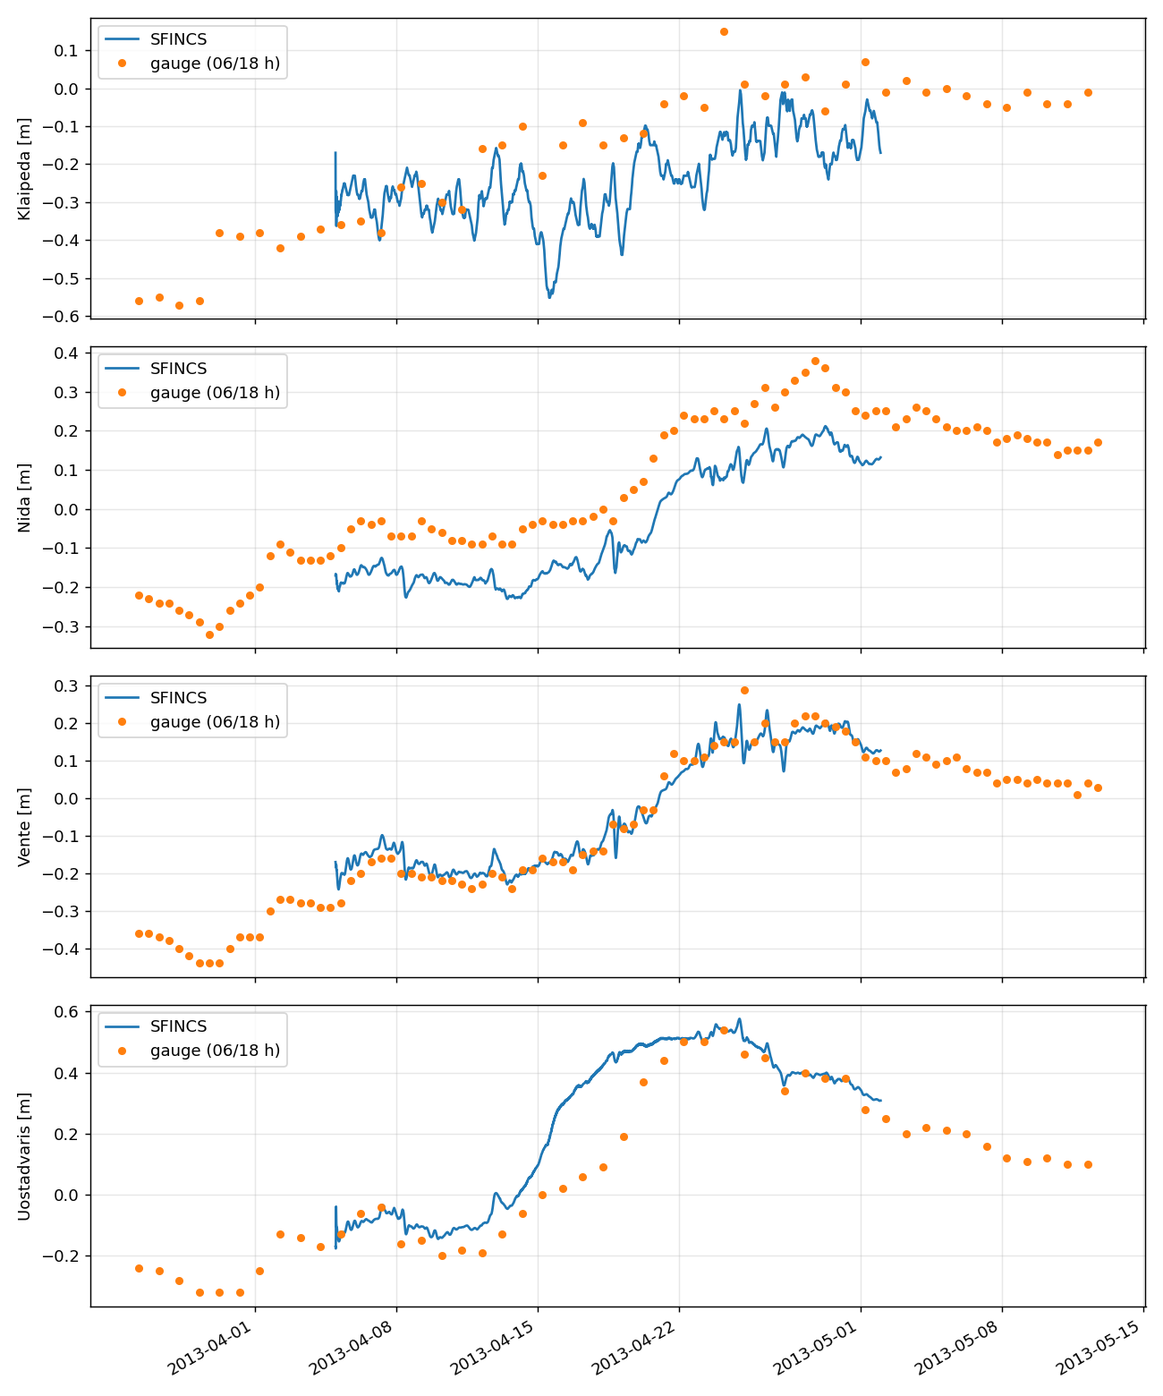
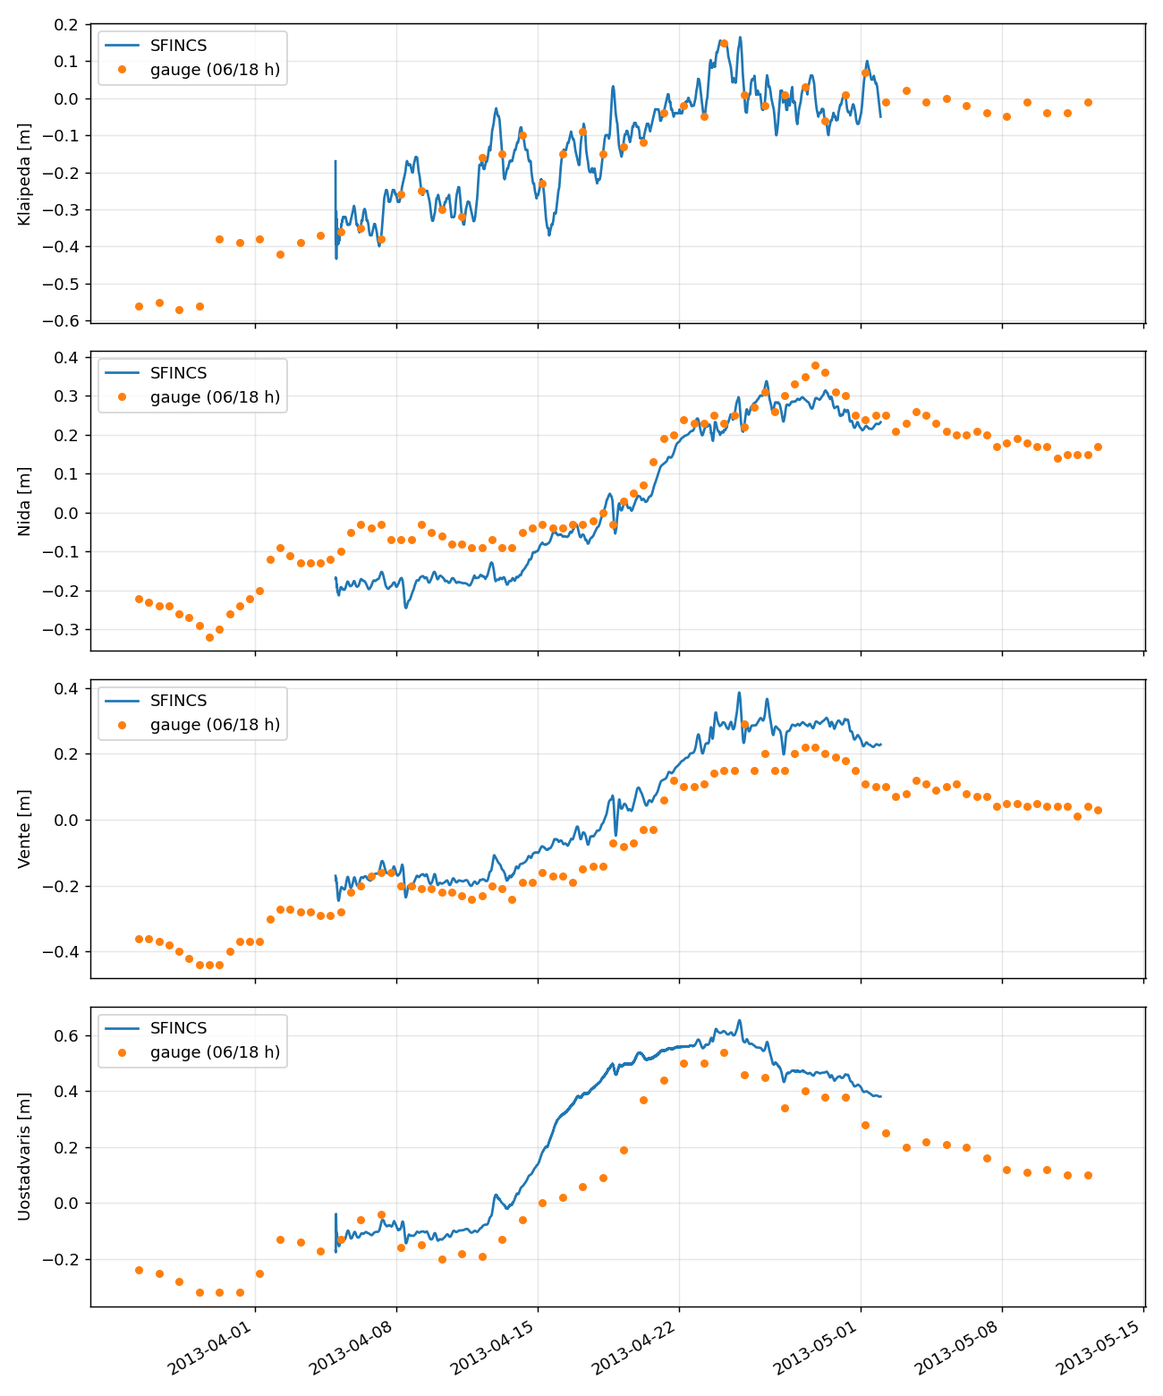
Re-run all six hindcasts on the fitted sea boundary
Rebuilt, run, validated and map-cache re-exported, sequentially on 12
threads (a TELEMAC job held 16 of 28 cores), 01:12-05:54.

April, all three variants: 5 of 7 scored criteria met (was 4 of 8; A4 is
now an info line). A3 delta-to-sea head met at +0.08..+0.09 m (was +0.23).
Scoring-window bias, baseline: Klaipeda -0.16 -> +0.00, Nida -0.13 ->
-0.02, Vente -0.00 -> +0.10, Uostadvaris +0.10 -> +0.16 -- the sea end and
central lagoon are now right, and the eastern side reads high: the
remaining April error is at the river end (A2a: the delta fills ~4 days
early). Flooded area 66.5 -> 73.3 km2 (gridded 70.2, 70.0).

Xaver, all three: C1, C2, C4 met (3 of 3 scored; C3 now info). Baseline
C2 err -0.04 -> -0.01 m; 8 Dec 06:00 miss Uostadvaris/Nida -0.11/-0.14 ->
-0.09/-0.12 m. Flooded area 155.6 -> 158.4 km2 (gridded 131.7, 131.3).

The app test follows: C3's new label, a 3-of-3 headline, 158.4 km2.

Claude-Session: https://claude.ai/code/session_01KRu4KRMkzuo3KBx1pDy9mh

diff --git a/app/test_sfincs_data.py b/app/test_sfincs_data.py
@@ -29,7 +29,7 @@ def test_criteria_are_parsed_with_verdicts():
     assert [c["label"] for c in items][:4] == [
         "C1 Uostadvaris peak",
         "C2 Nida 8 Dec rise",
-        "C3 Klaipeda RMSE",
+        "C3 Klaipeda boundary fit",
         "C4 Silute uplands",
     ]
     assert all(c["verdict"] and c["detail"] for c in items)
@@ -39,8 +39,9 @@ def test_info_lines_are_kept_but_not_scored():
     verdicts = [c["verdict"] for c in sd.criteria(VARIANT)]
     assert "info" in verdicts
     _, sentence = viewer.headline(VARIANT)
-    # the two info lines must not inflate the denominator
-    assert sentence.startswith("4 of 4")
+    # the info lines (the two 8 Dec 06:00 checks, and C3 since the sea boundary
+    # is fitted to the Klaipeda readings) must not inflate the denominator
+    assert sentence.startswith("3 of 3")
 
 
 def test_marginal_pass_is_reported_but_flagged(monkeypatch):
@@ -82,7 +83,7 @@ def test_unscored_verdicts_leave_the_denominator(monkeypatch):
 
 
 def test_flooded_area_is_read_from_the_report():
-    assert sd.flooded_area_km2(VARIANT) == pytest.approx(155.6)   # results/xaver_2013/validation.md since ad54760
+    assert sd.flooded_area_km2(VARIANT) == pytest.approx(158.4)   # results/xaver_2013/validation.md since the fitted sea boundary
 
 
 def test_both_metric_tables_are_parsed():

diff --git a/curonian/results/april_2013/validation.md b/curonian/results/april_2013/validation.md
@@ -4,28 +4,28 @@ Whole period: 2013-04-05 00:00 to 2013-05-02 00:00
 
 | station | n | bias m | RMSE m | r | peak err m | peak dt h |
 |---|---|---|---|---|---|---|
-| Klaipeda | 27 | -0.12 | 0.15 | 0.73 | -0.15 | +19 |
-| Nida | 54 | -0.12 | 0.12 | 0.99 | -0.15 | +12 |
-| Vente | 54 | +0.01 | 0.04 | 0.97 | -0.01 | -6 |
-| Uostadvaris | 27 | +0.09 | 0.13 | 0.93 | +0.05 | +18 |
+| Klaipeda | 27 | +0.00 | 0.00 | 1.00 | +0.02 | +19 |
+| Nida | 54 | -0.05 | 0.07 | 0.98 | -0.03 | -58 |
+| Vente | 54 | +0.08 | 0.10 | 0.97 | +0.12 | -6 |
+| Uostadvaris | 27 | +0.12 | 0.16 | 0.94 | +0.13 | +18 |
 
 Scoring window: 2013-04-13 00:00 to 2013-05-02 00:00
 
 | station | n | bias m | RMSE m | r | peak err m | peak dt h |
 |---|---|---|---|---|---|---|
-| Klaipeda | 19 | -0.16 | 0.18 | 0.77 | -0.15 | +19 |
-| Nida | 38 | -0.13 | 0.13 | 0.99 | -0.15 | +12 |
-| Vente | 38 | -0.00 | 0.04 | 0.96 | -0.01 | -6 |
-| Uostadvaris | 19 | +0.10 | 0.15 | 0.86 | +0.05 | +18 |
+| Klaipeda | 19 | +0.00 | 0.00 | 1.00 | +0.02 | +19 |
+| Nida | 38 | -0.02 | 0.04 | 0.98 | -0.03 | -58 |
+| Vente | 38 | +0.10 | 0.11 | 0.97 | +0.12 | -6 |
+| Uostadvaris | 19 | +0.16 | 0.18 | 0.90 | +0.13 | +18 |
 
-Flooded land in the delta window (depth > 5 cm, ground > 0 m): **66.5 km²**
+Flooded land in the delta window (depth > 5 cm, ground > 0 m): **73.3 km²**
 
 ### Success criteria (spec section 9)
-- A1 Uostadvaris peak [2013-04-13 00:00 to 2013-05-02 00:00]: **met** -- model peak 0.59 m vs gauge 0.54 m, err +0.05 m (threshold: peak err within +/-0.15 m)
-- A2a filling rate [first crossing of +0.20 m]: **not met** -- model 2013-04-15 15:20 vs gauge (interpolated) 2013-04-19 08:00, dt -89 h (threshold: within +/-24 h of the observed crossing)
-- A2b crest timing [2013-04-21 18:00 to 2013-04-24 18:00]: **not met** -- model peak 2013-04-25 00:10; observed plateau 22 Apr-24 Apr (threshold: model peak inside the observed plateau +/-12 h)
-- A3 delta-to-sea head [2013-04-22 00:00 to 2013-04-26 00:00]: **not met** -- model 0.71 m vs gauge 0.48 m over 5 readings, err +0.23 m (threshold: mean head within +/-0.15 m)
-- A4 Klaipeda control [2013-04-13 00:00 to 2013-05-02 00:00]: **not met** -- RMSE 0.176 m against an observed sd of 0.089 m (threshold: RMSE <= 0.085 m (below the observed sd of 0.089 m: a flat series fails))
+- A1 Uostadvaris peak [2013-04-13 00:00 to 2013-05-02 00:00]: **met** -- model peak 0.67 m vs gauge 0.54 m, err +0.13 m (threshold: peak err within +/-0.15 m)
+- A2a filling rate [first crossing of +0.20 m]: **not met** -- model 2013-04-15 08:20 vs gauge (interpolated) 2013-04-19 08:00, dt -96 h (threshold: within +/-24 h of the observed crossing)
+- A2b crest timing [2013-04-21 18:00 to 2013-04-24 18:00]: **not met** -- model peak 2013-04-25 00:20; observed plateau 22 Apr-24 Apr (threshold: model peak inside the observed plateau +/-12 h)
+- A3 delta-to-sea head [2013-04-22 00:00 to 2013-04-26 00:00]: **met** -- model 0.56 m vs gauge 0.48 m over 5 readings, err +0.09 m (threshold: mean head within +/-0.15 m)
+- A4 Klaipeda boundary fit [2013-04-13 00:00 to 2013-05-02 00:00]: **info** -- RMSE 0.002 m against an observed sd of 0.089 m (threshold: n/a -- the sea boundary is fitted to these readings; not an independent test)
 - A5 Silute uplands [whole run, delta window (325000, 6105000, 360000, 6145000)]: **met** -- 0.00% of land with ground > 3 m flooded (threshold: < 1 % flooded)
-- A6a Rusne rise [2013-04-13 00:00 to 2013-05-02 00:00]: **met** -- model 1.40 m vs gauge 1.53 m above the 05-11 Apr mean, err -0.12 m (daily values; gauge zero unknown, rise only) (threshold: rise within +/-0.15 m)
+- A6a Rusne rise [2013-04-13 00:00 to 2013-05-02 00:00]: **met** -- model 1.42 m vs gauge 1.53 m above the 05-11 Apr mean, err -0.11 m (daily values; gauge zero unknown, rise only) (threshold: rise within +/-0.15 m)
 - A6b Rusne crest date [19 Apr to 24 Apr]: **met** -- model crest 21 Apr; observed plateau 20 Apr-23 Apr (threshold: model crest inside the observed plateau +/-1 day)

diff --git a/curonian/results/april_2013_gridwind/validation.md b/curonian/results/april_2013_gridwind/validation.md
@@ -4,28 +4,28 @@ Whole period: 2013-04-05 00:00 to 2013-05-02 00:00
 
 | station | n | bias m | RMSE m | r | peak err m | peak dt h |
 |---|---|---|---|---|---|---|
-| Klaipeda | 27 | -0.12 | 0.15 | 0.73 | -0.16 | +19 |
-| Nida | 54 | -0.13 | 0.13 | 0.99 | -0.17 | +12 |
-| Vente | 54 | +0.00 | 0.04 | 0.98 | -0.04 | -6 |
-| Uostadvaris | 27 | +0.08 | 0.13 | 0.93 | +0.04 | +18 |
+| Klaipeda | 27 | +0.00 | 0.00 | 1.00 | +0.01 | +19 |
+| Nida | 54 | -0.06 | 0.07 | 0.98 | -0.04 | -58 |
+| Vente | 54 | +0.08 | 0.09 | 0.98 | +0.10 | -6 |
+| Uostadvaris | 27 | +0.12 | 0.15 | 0.93 | +0.11 | +18 |
 
 Scoring window: 2013-04-13 00:00 to 2013-05-02 00:00
 
 | station | n | bias m | RMSE m | r | peak err m | peak dt h |
 |---|---|---|---|---|---|---|
-| Klaipeda | 19 | -0.16 | 0.18 | 0.77 | -0.16 | +19 |
-| Nida | 38 | -0.14 | 0.14 | 0.99 | -0.17 | +12 |
-| Vente | 38 | -0.01 | 0.04 | 0.97 | -0.04 | -6 |
-| Uostadvaris | 19 | +0.10 | 0.15 | 0.85 | +0.04 | +18 |
+| Klaipeda | 19 | +0.00 | 0.00 | 1.00 | +0.01 | +19 |
+| Nida | 38 | -0.03 | 0.04 | 0.98 | -0.04 | -58 |
+| Vente | 38 | +0.10 | 0.10 | 0.97 | +0.10 | -6 |
+| Uostadvaris | 19 | +0.15 | 0.18 | 0.89 | +0.11 | +18 |
 
-Flooded land in the delta window (depth > 5 cm, ground > 0 m): **62.6 km²**
+Flooded land in the delta window (depth > 5 cm, ground > 0 m): **70.2 km²**
 
 ### Success criteria (spec section 9)
-- A1 Uostadvaris peak [2013-04-13 00:00 to 2013-05-02 00:00]: **met** -- model peak 0.58 m vs gauge 0.54 m, err +0.04 m (threshold: peak err within +/-0.15 m)
-- A2a filling rate [first crossing of +0.20 m]: **not met** -- model 2013-04-15 15:50 vs gauge (interpolated) 2013-04-19 08:00, dt -88 h (threshold: within +/-24 h of the observed crossing)
+- A1 Uostadvaris peak [2013-04-13 00:00 to 2013-05-02 00:00]: **met** -- model peak 0.65 m vs gauge 0.54 m, err +0.11 m (threshold: peak err within +/-0.15 m)
+- A2a filling rate [first crossing of +0.20 m]: **not met** -- model 2013-04-15 10:10 vs gauge (interpolated) 2013-04-19 08:00, dt -94 h (threshold: within +/-24 h of the observed crossing)
 - A2b crest timing [2013-04-21 18:00 to 2013-04-24 18:00]: **not met** -- model peak 2013-04-25 00:10; observed plateau 22 Apr-24 Apr (threshold: model peak inside the observed plateau +/-12 h)
-- A3 delta-to-sea head [2013-04-22 00:00 to 2013-04-26 00:00]: **not met** -- model 0.70 m vs gauge 0.48 m over 5 readings, err +0.23 m (threshold: mean head within +/-0.15 m)
-- A4 Klaipeda control [2013-04-13 00:00 to 2013-05-02 00:00]: **not met** -- RMSE 0.176 m against an observed sd of 0.089 m (threshold: RMSE <= 0.085 m (below the observed sd of 0.089 m: a flat series fails))
+- A3 delta-to-sea head [2013-04-22 00:00 to 2013-04-26 00:00]: **met** -- model 0.56 m vs gauge 0.48 m over 5 readings, err +0.08 m (threshold: mean head within +/-0.15 m)
+- A4 Klaipeda boundary fit [2013-04-13 00:00 to 2013-05-02 00:00]: **info** -- RMSE 0.001 m against an observed sd of 0.089 m (threshold: n/a -- the sea boundary is fitted to these readings; not an independent test)
 - A5 Silute uplands [whole run, delta window (325000, 6105000, 360000, 6145000)]: **met** -- 0.00% of land with ground > 3 m flooded (threshold: < 1 % flooded)
-- A6a Rusne rise [2013-04-13 00:00 to 2013-05-02 00:00]: **met** -- model 1.40 m vs gauge 1.53 m above the 05-11 Apr mean, err -0.12 m (daily values; gauge zero unknown, rise only) (threshold: rise within +/-0.15 m)
+- A6a Rusne rise [2013-04-13 00:00 to 2013-05-02 00:00]: **met** -- model 1.42 m vs gauge 1.53 m above the 05-11 Apr mean, err -0.11 m (daily values; gauge zero unknown, rise only) (threshold: rise within +/-0.15 m)
 - A6b Rusne crest date [19 Apr to 24 Apr]: **met** -- model crest 21 Apr; observed plateau 20 Apr-23 Apr (threshold: model crest inside the observed plateau +/-1 day)

diff --git a/curonian/results/april_2013_gridwind_pressure/validation.md b/curonian/results/april_2013_gridwind_pressure/validation.md
@@ -4,28 +4,28 @@ Whole period: 2013-04-05 00:00 to 2013-05-02 00:00
 
 | station | n | bias m | RMSE m | r | peak err m | peak dt h |
 |---|---|---|---|---|---|---|
-| Klaipeda | 27 | -0.12 | 0.15 | 0.72 | -0.16 | +19 |
-| Nida | 54 | -0.13 | 0.13 | 0.99 | -0.17 | +12 |
-| Vente | 54 | +0.00 | 0.04 | 0.98 | -0.04 | -6 |
-| Uostadvaris | 27 | +0.08 | 0.13 | 0.93 | +0.04 | +18 |
+| Klaipeda | 27 | +0.00 | 0.00 | 1.00 | +0.01 | +19 |
+| Nida | 54 | -0.06 | 0.07 | 0.98 | -0.05 | -58 |
+| Vente | 54 | +0.08 | 0.09 | 0.98 | +0.10 | -6 |
+| Uostadvaris | 27 | +0.12 | 0.15 | 0.93 | +0.11 | +18 |
 
 Scoring window: 2013-04-13 00:00 to 2013-05-02 00:00
 
 | station | n | bias m | RMSE m | r | peak err m | peak dt h |
 |---|---|---|---|---|---|---|
-| Klaipeda | 19 | -0.16 | 0.18 | 0.77 | -0.16 | +19 |
-| Nida | 38 | -0.14 | 0.14 | 0.99 | -0.17 | +12 |
-| Vente | 38 | -0.01 | 0.04 | 0.97 | -0.04 | -6 |
-| Uostadvaris | 19 | +0.10 | 0.15 | 0.85 | +0.04 | +18 |
+| Klaipeda | 19 | +0.00 | 0.00 | 1.00 | +0.01 | +19 |
+| Nida | 38 | -0.03 | 0.05 | 0.98 | -0.05 | -58 |
+| Vente | 38 | +0.09 | 0.10 | 0.97 | +0.10 | -6 |
+| Uostadvaris | 19 | +0.15 | 0.18 | 0.89 | +0.11 | +18 |
 
-Flooded land in the delta window (depth > 5 cm, ground > 0 m): **62.4 km²**
+Flooded land in the delta window (depth > 5 cm, ground > 0 m): **70.0 km²**
 
 ### Success criteria (spec section 9)
-- A1 Uostadvaris peak [2013-04-13 00:00 to 2013-05-02 00:00]: **met** -- model peak 0.58 m vs gauge 0.54 m, err +0.04 m (threshold: peak err within +/-0.15 m)
-- A2a filling rate [first crossing of +0.20 m]: **not met** -- model 2013-04-15 15:50 vs gauge (interpolated) 2013-04-19 08:00, dt -88 h (threshold: within +/-24 h of the observed crossing)
+- A1 Uostadvaris peak [2013-04-13 00:00 to 2013-05-02 00:00]: **met** -- model peak 0.65 m vs gauge 0.54 m, err +0.11 m (threshold: peak err within +/-0.15 m)
+- A2a filling rate [first crossing of +0.20 m]: **not met** -- model 2013-04-15 12:20 vs gauge (interpolated) 2013-04-19 08:00, dt -92 h (threshold: within +/-24 h of the observed crossing)
 - A2b crest timing [2013-04-21 18:00 to 2013-04-24 18:00]: **not met** -- model peak 2013-04-25 00:10; observed plateau 22 Apr-24 Apr (threshold: model peak inside the observed plateau +/-12 h)
-- A3 delta-to-sea head [2013-04-22 00:00 to 2013-04-26 00:00]: **not met** -- model 0.70 m vs gauge 0.48 m over 5 readings, err +0.23 m (threshold: mean head within +/-0.15 m)
-- A4 Klaipeda control [2013-04-13 00:00 to 2013-05-02 00:00]: **not met** -- RMSE 0.176 m against an observed sd of 0.089 m (threshold: RMSE <= 0.085 m (below the observed sd of 0.089 m: a flat series fails))
+- A3 delta-to-sea head [2013-04-22 00:00 to 2013-04-26 00:00]: **met** -- model 0.56 m vs gauge 0.48 m over 5 readings, err +0.08 m (threshold: mean head within +/-0.15 m)
+- A4 Klaipeda boundary fit [2013-04-13 00:00 to 2013-05-02 00:00]: **info** -- RMSE 0.001 m against an observed sd of 0.089 m (threshold: n/a -- the sea boundary is fitted to these readings; not an independent test)
 - A5 Silute uplands [whole run, delta window (325000, 6105000, 360000, 6145000)]: **met** -- 0.00% of land with ground > 3 m flooded (threshold: < 1 % flooded)
-- A6a Rusne rise [2013-04-13 00:00 to 2013-05-02 00:00]: **met** -- model 1.40 m vs gauge 1.53 m above the 05-11 Apr mean, err -0.12 m (daily values; gauge zero unknown, rise only) (threshold: rise within +/-0.15 m)
+- A6a Rusne rise [2013-04-13 00:00 to 2013-05-02 00:00]: **met** -- model 1.42 m vs gauge 1.53 m above the 05-11 Apr mean, err -0.11 m (daily values; gauge zero unknown, rise only) (threshold: rise within +/-0.15 m)
 - A6b Rusne crest date [19 Apr to 24 Apr]: **met** -- model crest 21 Apr; observed plateau 20 Apr-23 Apr (threshold: model crest inside the observed plateau +/-1 day)

diff --git a/curonian/results/xaver_2013/validation.md b/curonian/results/xaver_2013/validation.md
@@ -4,26 +4,26 @@ Whole period: 2013-11-28 00:00 to 2013-12-11 00:00
 
 | station | n | bias m | RMSE m | r | peak err m | peak dt h |
 |---|---|---|---|---|---|---|
-| Klaipeda | 13 | -0.01 | 0.08 | 0.91 | +0.13 | +10 |
-| Nida | 26 | -0.01 | 0.08 | 0.86 | -0.01 | +2 |
-| Vente | 26 | +0.05 | 0.10 | 0.77 | +0.08 | +2 |
-| Uostadvaris | 13 | -0.01 | 0.06 | 0.91 | +0.07 | +0 |
+| Klaipeda | 13 | +0.00 | 0.01 | 1.00 | +0.15 | +9 |
+| Nida | 26 | -0.00 | 0.07 | 0.88 | +0.02 | +2 |
+| Vente | 26 | +0.06 | 0.10 | 0.80 | +0.11 | +2 |
+| Uostadvaris | 13 | +0.00 | 0.05 | 0.93 | +0.08 | +0 |
 
 Storm window: 2013-12-05 00:00 to 2013-12-09 00:00
 
 | station | n | bias m | RMSE m | r | peak err m | peak dt h |
 |---|---|---|---|---|---|---|
-| Klaipeda | 4 | -0.03 | 0.12 | 0.73 | +0.13 | +10 |
-| Nida | 8 | -0.08 | 0.13 | 0.78 | -0.04 | +0 |
-| Vente | 8 | +0.01 | 0.12 | 0.71 | +0.07 | -67 |
-| Uostadvaris | 4 | -0.03 | 0.09 | 0.90 | +0.07 | +0 |
+| Klaipeda | 4 | +0.01 | 0.01 | 1.00 | +0.15 | +9 |
+| Nida | 8 | -0.06 | 0.12 | 0.79 | -0.01 | +0 |
+| Vente | 8 | +0.03 | 0.12 | 0.73 | +0.08 | -67 |
+| Uostadvaris | 4 | -0.02 | 0.08 | 0.90 | +0.08 | +0 |
 
-Flooded land in the delta window (depth > 5 cm, ground > 0 m): **155.6 km²**
+Flooded land in the delta window (depth > 5 cm, ground > 0 m): **158.4 km²**
 
 ### Success criteria (spec section 9)
-- C1 Uostadvaris peak [2013-12-05 00:00 to 2013-12-09 00:00]: **met** -- model peak 2013-12-06 06:20, peak err +0.07 m, dt +0.3 h (threshold: peak err within +/-0.15 m and |dt| <= 6 h)
-- C2 Nida 8 Dec rise [2013-12-07 06:00 to 2013-12-08 18:00]: **met** -- model 0.39 m -> 0.80 m vs gauge 0.84 m, err -0.04 m, rise reproduced (threshold: err within +/-0.15 m (<=0.10 m for a clean 'met'), rise reproduced in sign)
-- C3 Klaipeda RMSE [2013-12-05 00:00 to 2013-12-09 00:00]: **met** -- storm RMSE 0.12 m (whole-period RMSE 0.08 m) (threshold: storm-window RMSE <= 0.15 m)
+- C1 Uostadvaris peak [2013-12-05 00:00 to 2013-12-09 00:00]: **met** -- model peak 2013-12-06 06:20, peak err +0.08 m, dt +0.3 h (threshold: peak err within +/-0.15 m and |dt| <= 6 h)
+- C2 Nida 8 Dec rise [2013-12-07 06:00 to 2013-12-08 18:00]: **met** -- model 0.41 m -> 0.83 m vs gauge 0.84 m, err -0.01 m, rise reproduced (threshold: err within +/-0.15 m (<=0.10 m for a clean 'met'), rise reproduced in sign)
+- C3 Klaipeda boundary fit [2013-12-05 00:00 to 2013-12-09 00:00]: **info** -- storm RMSE 0.01 m (whole-period RMSE 0.01 m) (threshold: n/a -- the sea boundary is fitted to these readings; not an independent test)
 - C4 Silute uplands [delta window (325000, 6105000, 360000, 6145000)]: **met** -- 0.00% of land with ground > 3 m flooded (threshold: < 1 % flooded)
-- Info: Uostadvaris 8 Dec 06:00 [2013-12-08 06:00]: **info** -- model 0.72 m vs gauge 0.83 m, err -0.11 m (threshold: n/a (context only))
-- Info: Nida 8 Dec 06:00 [2013-12-08 06:00]: **info** -- model 0.60 m vs gauge 0.74 m, err -0.14 m (threshold: n/a (context only))
+- Info: Uostadvaris 8 Dec 06:00 [2013-12-08 06:00]: **info** -- model 0.74 m vs gauge 0.83 m, err -0.09 m (threshold: n/a (context only))
+- Info: Nida 8 Dec 06:00 [2013-12-08 06:00]: **info** -- model 0.62 m vs gauge 0.74 m, err -0.12 m (threshold: n/a (context only))

diff --git a/curonian/results/xaver_2013_gridwind/validation.md b/curonian/results/xaver_2013_gridwind/validation.md
@@ -4,26 +4,26 @@ Whole period: 2013-11-28 00:00 to 2013-12-11 00:00
 
 | station | n | bias m | RMSE m | r | peak err m | peak dt h |
 |---|---|---|---|---|---|---|
-| Klaipeda | 13 | -0.01 | 0.08 | 0.90 | +0.12 | +26 |
-| Nida | 26 | -0.01 | 0.06 | 0.92 | -0.02 | +2 |
-| Vente | 26 | +0.05 | 0.08 | 0.85 | +0.05 | +2 |
-| Uostadvaris | 13 | -0.02 | 0.04 | 0.96 | -0.01 | +0 |
+| Klaipeda | 13 | +0.00 | 0.00 | 1.00 | +0.15 | -6 |
+| Nida | 26 | +0.00 | 0.05 | 0.93 | +0.01 | +2 |
+| Vente | 26 | +0.07 | 0.09 | 0.88 | +0.09 | +2 |
+| Uostadvaris | 13 | -0.01 | 0.04 | 0.97 | +0.01 | +0 |
 
 Storm window: 2013-12-05 00:00 to 2013-12-09 00:00
 
 | station | n | bias m | RMSE m | r | peak err m | peak dt h |
 |---|---|---|---|---|---|---|
-| Klaipeda | 4 | -0.03 | 0.12 | 0.72 | +0.12 | +26 |
-| Nida | 8 | -0.06 | 0.09 | 0.86 | -0.05 | +0 |
-| Vente | 8 | +0.03 | 0.09 | 0.77 | +0.04 | +0 |
-| Uostadvaris | 4 | -0.04 | 0.07 | 0.93 | -0.01 | +0 |
+| Klaipeda | 4 | +0.00 | 0.01 | 1.00 | +0.15 | -6 |
+| Nida | 8 | -0.03 | 0.08 | 0.87 | -0.02 | +0 |
+| Vente | 8 | +0.05 | 0.10 | 0.80 | +0.08 | +0 |
+| Uostadvaris | 4 | -0.03 | 0.05 | 0.94 | +0.01 | +0 |
 
-Flooded land in the delta window (depth > 5 cm, ground > 0 m): **128.8 km²**
+Flooded land in the delta window (depth > 5 cm, ground > 0 m): **131.7 km²**
 
 ### Success criteria (spec section 9)
-- C1 Uostadvaris peak [2013-12-05 00:00 to 2013-12-09 00:00]: **met** -- model peak 2013-12-06 06:10, peak err -0.01 m, dt +0.2 h (threshold: peak err within +/-0.15 m and |dt| <= 6 h)
-- C2 Nida 8 Dec rise [2013-12-07 06:00 to 2013-12-08 18:00]: **met** -- model 0.43 m -> 0.79 m vs gauge 0.84 m, err -0.05 m, rise reproduced (threshold: err within +/-0.15 m (<=0.10 m for a clean 'met'), rise reproduced in sign)
-- C3 Klaipeda RMSE [2013-12-05 00:00 to 2013-12-09 00:00]: **met** -- storm RMSE 0.12 m (whole-period RMSE 0.08 m) (threshold: storm-window RMSE <= 0.15 m)
+- C1 Uostadvaris peak [2013-12-05 00:00 to 2013-12-09 00:00]: **met** -- model peak 2013-12-06 06:10, peak err +0.01 m, dt +0.2 h (threshold: peak err within +/-0.15 m and |dt| <= 6 h)
+- C2 Nida 8 Dec rise [2013-12-07 06:00 to 2013-12-08 18:00]: **met** -- model 0.45 m -> 0.82 m vs gauge 0.84 m, err -0.02 m, rise reproduced (threshold: err within +/-0.15 m (<=0.10 m for a clean 'met'), rise reproduced in sign)
+- C3 Klaipeda boundary fit [2013-12-05 00:00 to 2013-12-09 00:00]: **info** -- storm RMSE 0.01 m (whole-period RMSE 0.00 m) (threshold: n/a -- the sea boundary is fitted to these readings; not an independent test)
 - C4 Silute uplands [delta window (325000, 6105000, 360000, 6145000)]: **met** -- 0.00% of land with ground > 3 m flooded (threshold: < 1 % flooded)
-- Info: Uostadvaris 8 Dec 06:00 [2013-12-08 06:00]: **info** -- model 0.73 m vs gauge 0.83 m, err -0.10 m (threshold: n/a (context only))
-- Info: Nida 8 Dec 06:00 [2013-12-08 06:00]: **info** -- model 0.63 m vs gauge 0.74 m, err -0.11 m (threshold: n/a (context only))
+- Info: Uostadvaris 8 Dec 06:00 [2013-12-08 06:00]: **info** -- model 0.75 m vs gauge 0.83 m, err -0.08 m (threshold: n/a (context only))
+- Info: Nida 8 Dec 06:00 [2013-12-08 06:00]: **info** -- model 0.65 m vs gauge 0.74 m, err -0.09 m (threshold: n/a (context only))

diff --git a/curonian/results/xaver_2013_gridwind_pressure/validation.md b/curonian/results/xaver_2013_gridwind_pressure/validation.md
@@ -4,26 +4,26 @@ Whole period: 2013-11-28 00:00 to 2013-12-11 00:00
 
 | station | n | bias m | RMSE m | r | peak err m | peak dt h |
 |---|---|---|---|---|---|---|
-| Klaipeda | 13 | -0.01 | 0.09 | 0.90 | +0.12 | +26 |
-| Nida | 26 | -0.01 | 0.06 | 0.91 | -0.03 | +2 |
-| Vente | 26 | +0.05 | 0.08 | 0.84 | +0.04 | +1 |
-| Uostadvaris | 13 | -0.02 | 0.05 | 0.95 | -0.01 | +0 |
+| Klaipeda | 13 | +0.00 | 0.00 | 1.00 | +0.15 | -6 |
+| Nida | 26 | -0.00 | 0.06 | 0.92 | -0.00 | +2 |
+| Vente | 26 | +0.06 | 0.09 | 0.87 | +0.07 | +1 |
+| Uostadvaris | 13 | -0.01 | 0.04 | 0.96 | +0.01 | +0 |
 
 Storm window: 2013-12-05 00:00 to 2013-12-09 00:00
 
 | station | n | bias m | RMSE m | r | peak err m | peak dt h |
 |---|---|---|---|---|---|---|
-| Klaipeda | 4 | -0.03 | 0.12 | 0.72 | +0.12 | +26 |
-| Nida | 8 | -0.06 | 0.10 | 0.84 | -0.06 | +0 |
-| Vente | 8 | +0.02 | 0.09 | 0.76 | +0.03 | +0 |
-| Uostadvaris | 4 | -0.05 | 0.07 | 0.93 | -0.01 | +0 |
+| Klaipeda | 4 | +0.00 | 0.01 | 1.00 | +0.15 | -6 |
+| Nida | 8 | -0.04 | 0.09 | 0.85 | -0.03 | +0 |
+| Vente | 8 | +0.04 | 0.09 | 0.79 | +0.07 | +0 |
+| Uostadvaris | 4 | -0.03 | 0.06 | 0.94 | +0.01 | +0 |
 
-Flooded land in the delta window (depth > 5 cm, ground > 0 m): **128.3 km²**
+Flooded land in the delta window (depth > 5 cm, ground > 0 m): **131.3 km²**
 
 ### Success criteria (spec section 9)
-- C1 Uostadvaris peak [2013-12-05 00:00 to 2013-12-09 00:00]: **met** -- model peak 2013-12-06 06:10, peak err -0.01 m, dt +0.2 h (threshold: peak err within +/-0.15 m and |dt| <= 6 h)
-- C2 Nida 8 Dec rise [2013-12-07 06:00 to 2013-12-08 18:00]: **met** -- model 0.41 m -> 0.78 m vs gauge 0.84 m, err -0.06 m, rise reproduced (threshold: err within +/-0.15 m (<=0.10 m for a clean 'met'), rise reproduced in sign)
-- C3 Klaipeda RMSE [2013-12-05 00:00 to 2013-12-09 00:00]: **met** -- storm RMSE 0.12 m (whole-period RMSE 0.09 m) (threshold: storm-window RMSE <= 0.15 m)
+- C1 Uostadvaris peak [2013-12-05 00:00 to 2013-12-09 00:00]: **met** -- model peak 2013-12-06 06:20, peak err +0.01 m, dt +0.3 h (threshold: peak err within +/-0.15 m and |dt| <= 6 h)
+- C2 Nida 8 Dec rise [2013-12-07 06:00 to 2013-12-08 18:00]: **met** -- model 0.44 m -> 0.81 m vs gauge 0.84 m, err -0.03 m, rise reproduced (threshold: err within +/-0.15 m (<=0.10 m for a clean 'met'), rise reproduced in sign)
+- C3 Klaipeda boundary fit [2013-12-05 00:00 to 2013-12-09 00:00]: **info** -- storm RMSE 0.01 m (whole-period RMSE 0.00 m) (threshold: n/a -- the sea boundary is fitted to these readings; not an independent test)
 - C4 Silute uplands [delta window (325000, 6105000, 360000, 6145000)]: **met** -- 0.00% of land with ground > 3 m flooded (threshold: < 1 % flooded)
-- Info: Uostadvaris 8 Dec 06:00 [2013-12-08 06:00]: **info** -- model 0.73 m vs gauge 0.83 m, err -0.10 m (threshold: n/a (context only))
-- Info: Nida 8 Dec 06:00 [2013-12-08 06:00]: **info** -- model 0.62 m vs gauge 0.74 m, err -0.12 m (threshold: n/a (context only))
+- Info: Uostadvaris 8 Dec 06:00 [2013-12-08 06:00]: **info** -- model 0.75 m vs gauge 0.83 m, err -0.08 m (threshold: n/a (context only))
+- Info: Nida 8 Dec 06:00 [2013-12-08 06:00]: **info** -- model 0.64 m vs gauge 0.74 m, err -0.10 m (threshold: n/a (context only))
